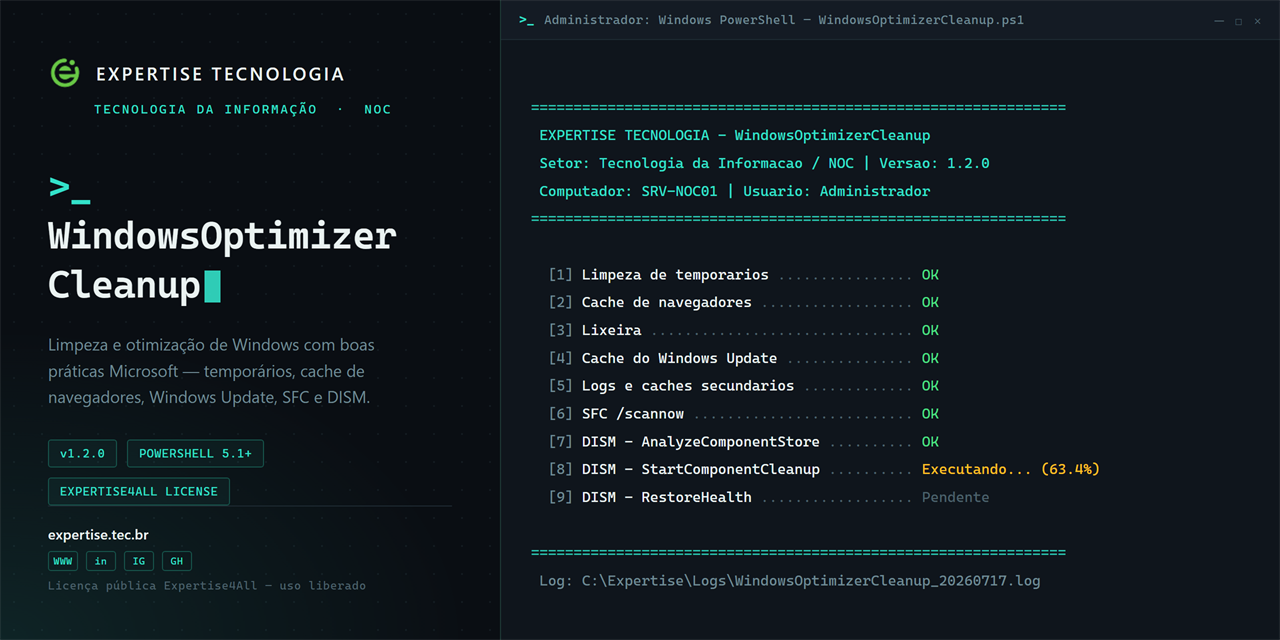
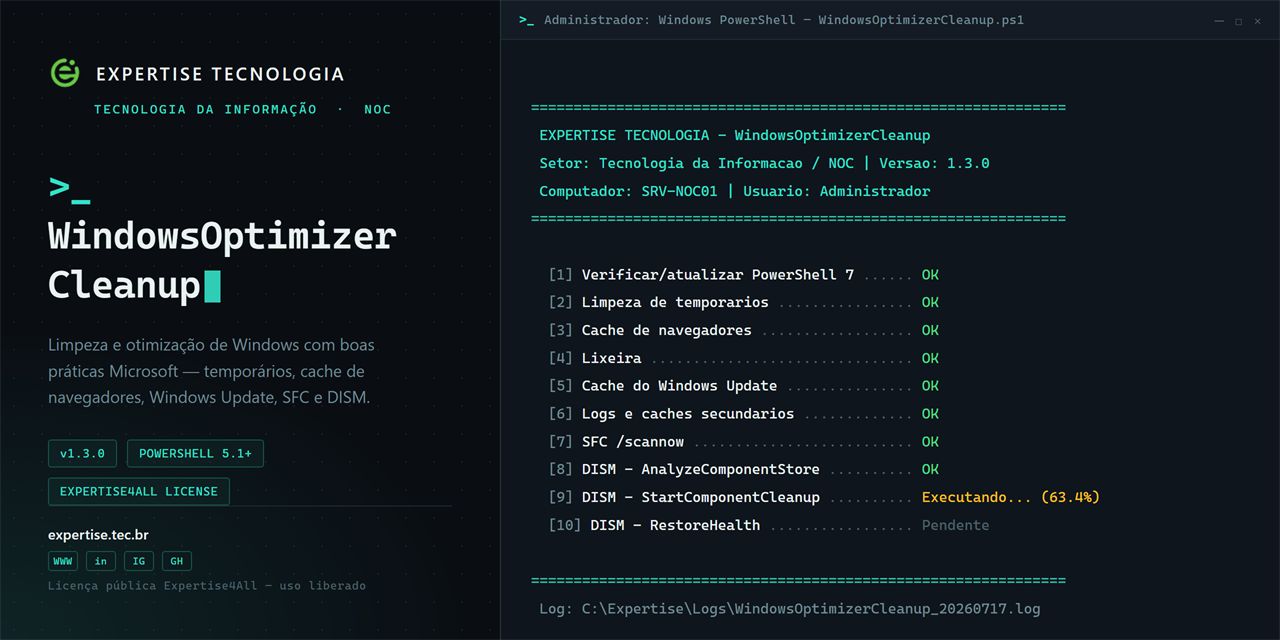
v1.3.0: auto-check/update PowerShell 7 as new Passo 1
- Novo passo (sem confirmacao do operador, uso consciente por analistas
  de TI): consulta a versao estavel mais recente do PowerShell 7 via API
  do GitHub e instala silenciosamente (MSI + msiexec /quiet) se ausente
  ou desatualizado. winget descartado: nao existe por padrao no Windows
  Server 2022 ou anterior, publico-alvo do script.
- Nunca bloqueia a limpeza: falha de rede/instalacao vira ALERTA no
  resumo, restante dos passos roda normalmente.
- PowerShell 7 instalado lado a lado com o 5.1; o script continua no
  mesmo motor, sem relancamento sob pwsh.exe.
- Passos antigos 1-9 renumerados para 2-10. Social preview e docs
  (CHANGELOG/README/CONTRIBUTING) atualizados.

diff --git a/assets/social-preview-source.html b/assets/social-preview-source.html
@@ -242,7 +242,7 @@
       </div>
 
       <div class="badges">
-        <span class="badge">v1.2.0</span>
+        <span class="badge">v1.3.0</span>
         <span class="badge">POWERSHELL 5.1+</span>
         <span class="badge">EXPERTISE4ALL LICENSE</span>
       </div>
@@ -268,19 +268,20 @@
       <div class="termbody">
 <span class="rule">===============================================================</span>
 <span class="head"> EXPERTISE TECNOLOGIA - WindowsOptimizerCleanup</span>
-<span class="head"> Setor: Tecnologia da Informacao / NOC | Versao: 1.2.0</span>
+<span class="head"> Setor: Tecnologia da Informacao / NOC | Versao: 1.3.0</span>
 <span class="head"> Computador: SRV-NOC01 | Usuario: Administrador</span>
 <span class="rule">===============================================================</span>
 
-<span class="num">  [1]</span> <span class="label">Limpeza de temporarios</span> <span class="dots">................</span> <span class="ok">OK</span>
-<span class="num">  [2]</span> <span class="label">Cache de navegadores</span> <span class="dots">..................</span> <span class="ok">OK</span>
-<span class="num">  [3]</span> <span class="label">Lixeira</span> <span class="dots">...............................</span> <span class="ok">OK</span>
-<span class="num">  [4]</span> <span class="label">Cache do Windows Update</span> <span class="dots">...............</span> <span class="ok">OK</span>
-<span class="num">  [5]</span> <span class="label">Logs e caches secundarios</span> <span class="dots">.............</span> <span class="ok">OK</span>
-<span class="num">  [6]</span> <span class="label">SFC /scannow</span> <span class="dots">..........................</span> <span class="ok">OK</span>
-<span class="num">  [7]</span> <span class="label">DISM - AnalyzeComponentStore</span> <span class="dots">..........</span> <span class="ok">OK</span>
-<span class="num">  [8]</span> <span class="label">DISM - StartComponentCleanup</span> <span class="dots">..........</span> <span class="amber">Executando... (63.4%)</span>
-<span class="num">  [9]</span> <span class="label">DISM - RestoreHealth</span> <span class="dots">..................</span> <span class="pend">Pendente</span>
+<span class="num">  [1]</span> <span class="label">Verificar/atualizar PowerShell 7</span> <span class="dots">......</span> <span class="ok">OK</span>
+<span class="num">  [2]</span> <span class="label">Limpeza de temporarios</span> <span class="dots">................</span> <span class="ok">OK</span>
+<span class="num">  [3]</span> <span class="label">Cache de navegadores</span> <span class="dots">..................</span> <span class="ok">OK</span>
+<span class="num">  [4]</span> <span class="label">Lixeira</span> <span class="dots">...............................</span> <span class="ok">OK</span>
+<span class="num">  [5]</span> <span class="label">Cache do Windows Update</span> <span class="dots">...............</span> <span class="ok">OK</span>
+<span class="num">  [6]</span> <span class="label">Logs e caches secundarios</span> <span class="dots">.............</span> <span class="ok">OK</span>
+<span class="num">  [7]</span> <span class="label">SFC /scannow</span> <span class="dots">..........................</span> <span class="ok">OK</span>
+<span class="num">  [8]</span> <span class="label">DISM - AnalyzeComponentStore</span> <span class="dots">..........</span> <span class="ok">OK</span>
+<span class="num">  [9]</span> <span class="label">DISM - StartComponentCleanup</span> <span class="dots">..........</span> <span class="amber">Executando... (63.4%)</span>
+<span class="num">  [10]</span> <span class="label">DISM - RestoreHealth</span> <span class="dots">.................</span> <span class="pend">Pendente</span>
 
 <span class="rule">===============================================================</span>
 <span class="logln"> Log: C:\Expertise\Logs\WindowsOptimizerCleanup_20260717.log</span>

diff --git a/CONTRIBUTING.md b/CONTRIBUTING.md
@@ -79,3 +79,28 @@ instalado). Faça commit do PNG junto com a mudança de versão.
 O GitHub **não** tem API para o campo Social Preview — mesmo com o PNG do
 repositório atualizado, o passo final continua manual: Settings → General →
 Social preview → Edit → Upload an image.
+
+## Passos que instalam/alteram software no servidor
+
+O `WindowsOptimizerCleanup.ps1` tem um passo (verificação/atualização do
+PowerShell 7) que baixa e instala software a partir da internet, sem pedir
+confirmação do operador. Isso é aceitável **apenas** porque:
+
+- O script é usado conscientemente por analistas de TI que já sabem o que
+  ele faz (não é distribuído para usuários finais sem supervisão).
+- A ação nunca bloqueia a finalidade principal do script (limpeza): falha
+  de rede/instalação vira `ALERTA` no resumo e o script segue em frente.
+- O software instalado (PowerShell 7) é lado a lado com o que já existe —
+  não substitui, não remove, não força reinicialização do próprio motor
+  do script.
+
+Se um novo script da série precisar de um passo parecido (instalar/atualizar
+algo automaticamente), siga o mesmo padrão: **nunca** deixe uma falha de
+rede ou de instalação interromper o restante do script, e documente a
+decisão aqui.
+
+Sobre `winget`: **não use** como único mecanismo de instalação nesta série.
+A documentação da Microsoft confirma que `winget` não vem por padrão no
+Windows Server 2022 ou anterior — que é justamente o público-alvo declarado
+destes scripts. Prefira MSI com instalação silenciosa (`msiexec /quiet`),
+que é o que a própria Microsoft recomenda para servidores.

diff --git a/README.md b/README.md
@@ -6,7 +6,7 @@
 
 Script de limpeza e otimização de Windows (Server e Desktop) com boas práticas Microsoft.
 
-[![Versão](https://img.shields.io/badge/vers%C3%A3o-1.2.0-blue)](./CHANGELOG.md)
+[![Versão](https://img.shields.io/badge/vers%C3%A3o-1.3.0-blue)](./CHANGELOG.md)
 [![Licença](https://img.shields.io/badge/licen%C3%A7a-Expertise4All-brightgreen)](./LICENSE)
 [![PowerShell](https://img.shields.io/badge/PowerShell-5.1%2B-5391FE?logo=powershell&logoColor=white)](#requisitos)
 
@@ -21,22 +21,23 @@ Script de limpeza e otimização de Windows (Server e Desktop) com boas prática
 | **Autor**   | Pablo Fernando Schütz |
 | **Empresa** | Expertise Tecnologia |
 | **Setor**   | TI / NOC |
-| **Versão**  | 1.2.0 |
+| **Versão**  | 1.3.0 |
 | **Licença** | [Expertise4All](./LICENSE) — uso público e liberado |
 
 ---
 
 ## O que o script faz (em ordem)
 
-1. **Temporários** — limpa `%TEMP%`, `C:\Windows\Temp` e a pasta Temp de todos os perfis de usuário (útil em RDS).
-2. **Cache de navegadores** — limpa o cache dos navegadores mais comuns (Internet Explorer, Google Chrome, Mozilla Firefox, Microsoft Edge e Opera) de todos os perfis de usuário. Favoritos, senhas e histórico não são afetados.
-3. **Lixeira** — esvazia `C:\$Recycle.Bin` de todos os usuários.
-4. **Cache do Windows Update** — para `wuauserv`/`bits`, limpa `SoftwareDistribution\Download` e reinicia os serviços.
-5. **Logs e caches secundários** — WER (relatórios de erro), Prefetch e logs CBS com mais de 30 dias.
-6. **`sfc /scannow`** — verifica e repara arquivos de sistema.
-7. **`DISM /AnalyzeComponentStore`** — analisa o WinSxS.
-8. **`DISM /StartComponentCleanup`** — remove componentes substituídos do WinSxS.
-9. **`DISM /RestoreHealth`** — repara a imagem do Windows via Windows Update.
+1. **Verificar/atualizar PowerShell 7** — consulta a versão estável mais recente no GitHub e, se ausente ou desatualizada, instala silenciosamente via MSI oficial. Roda sem confirmação (uso consciente por analistas de TI) e **nunca bloqueia a limpeza**: sem internet ou falha na instalação viram apenas um aviso no resumo.
+2. **Temporários** — limpa `%TEMP%`, `C:\Windows\Temp` e a pasta Temp de todos os perfis de usuário (útil em RDS).
+3. **Cache de navegadores** — limpa o cache dos navegadores mais comuns (Internet Explorer, Google Chrome, Mozilla Firefox, Microsoft Edge e Opera) de todos os perfis de usuário. Favoritos, senhas e histórico não são afetados.
+4. **Lixeira** — esvazia `C:\$Recycle.Bin` de todos os usuários.
+5. **Cache do Windows Update** — para `wuauserv`/`bits`, limpa `SoftwareDistribution\Download` e reinicia os serviços.
+6. **Logs e caches secundários** — WER (relatórios de erro), Prefetch e logs CBS com mais de 30 dias.
+7. **`sfc /scannow`** — verifica e repara arquivos de sistema.
+8. **`DISM /AnalyzeComponentStore`** — analisa o WinSxS.
+9. **`DISM /StartComponentCleanup`** — remove componentes substituídos do WinSxS.
+10. **`DISM /RestoreHealth`** — repara a imagem do Windows via Windows Update.
 
 Todos os passos rodam com aprovação automática (sem prompts). Durante a execução, o console mostra
 um menu fixo com o status de cada passo (e a porcentagem ao vivo nos passos de DISM) em vez de
@@ -49,6 +50,7 @@ execução (sem repetir o menu de passos) e o relatório de espaço. O log compl
 - Windows 10/11 ou Windows Server 2016 ou superior (PowerShell 5.1+)
 - Executar como **Administrador**
 - Acesso ao Windows Update (ou WSUS) para o passo `RestoreHealth`
+- Acesso à internet (`github.com`) é **opcional** — usado só no Passo 1 para verificar/instalar o PowerShell 7; sem internet, esse passo vira um aviso no resumo e o restante da limpeza roda normalmente
 
 ## Como executar
 

diff --git a/CHANGELOG.md b/CHANGELOG.md
@@ -6,6 +6,29 @@ O formato é baseado em [Keep a Changelog](https://keepachangelog.com/pt-BR/1.0.
 e este projeto adere ao [Versionamento Semântico](https://semver.org/lang/pt-BR/)
 (ver regras em [CONTRIBUTING.md](CONTRIBUTING.md#versionamento-semver)).
 
+## [1.3.0] - 2026-07-17
+
+### Adicionado
+
+- Novo Passo 1: **Verificar/atualizar PowerShell 7**. Consulta a API do
+  GitHub pela versão estável mais recente, compara com a versão instalada
+  (`pwsh.exe`) e, se ausente ou desatualizada, baixa o MSI oficial e
+  instala silenciosamente (`msiexec /quiet`) — o método que a própria
+  Microsoft recomenda para servidores (`winget` não está disponível por
+  padrão no Windows Server 2022 ou anterior).
+- Os passos antigos 1–9 foram renumerados para 2–10 para abrir espaço
+  para o novo Passo 1.
+
+### Alterado
+
+- Este passo roda sem confirmação do operador (uso consciente por
+  analistas de TI) e **nunca bloqueia a limpeza**: falha de rede, GitHub
+  inacessível ou erro na instalação viram `ALERTA` no resumo (detalhes no
+  log), mas os passos seguintes rodam normalmente.
+- O PowerShell 7 é instalado lado a lado com o Windows PowerShell 5.1 —
+  o restante do script continua rodando no mesmo motor que já estava em
+  uso (sem relançamento sob `pwsh.exe`).
+
 ## [1.2.0] - 2026-07-17
 
 ### Adicionado